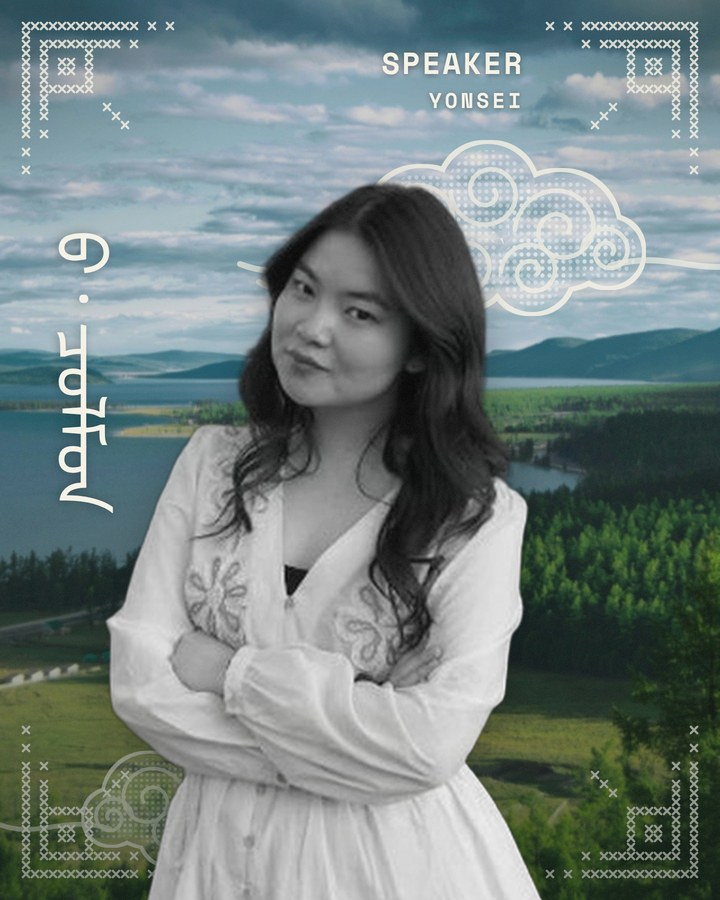
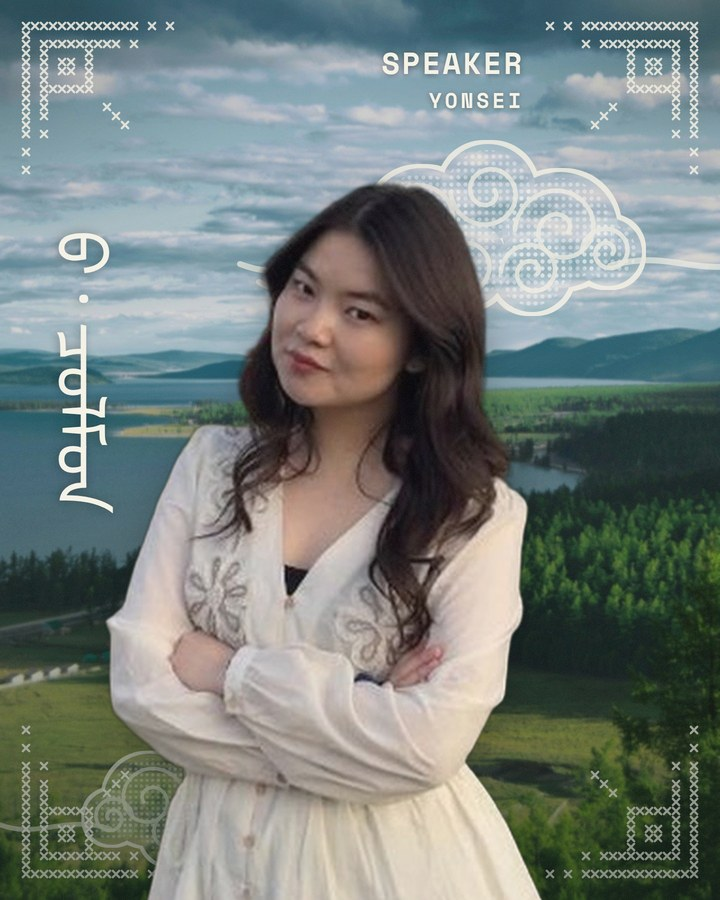
Speakers: full-colour people on the styled background
Claude-Session: https://claude.ai/code/session_015w2YeaPuoH2UidzmstFP66

diff --git a/index.html b/index.html
@@ -278,7 +278,7 @@
       <div class="marquee speakers-row" data-reveal>
         <div class="speaker">
           <div class="speaker__photo">
-            <img src="assets/img/speaker-urangoo.jpg?v=4" alt="Urangoo Shinedelger" loading="lazy">
+            <img src="assets/img/speaker-urangoo.jpg?v=5" alt="Urangoo Shinedelger" loading="lazy">
             <span class="speaker__school"><img src="assets/img/schools/stanford.svg" alt="Stanford University"></span>
           </div>
           <p class="speaker__name">Urangoo Shinedelger</p>
@@ -286,7 +286,7 @@
         </div>
         <div class="speaker">
           <div class="speaker__photo">
-            <img src="assets/img/speaker-garid.jpg?v=4" alt="Garid Mendbayar" loading="lazy">
+            <img src="assets/img/speaker-garid.jpg?v=5" alt="Garid Mendbayar" loading="lazy">
             <span class="speaker__school"><img src="assets/img/schools/vanderbilt.png?v=3" alt="Vanderbilt University"></span>
           </div>
           <p class="speaker__name">Garid Mendbayar</p>
@@ -294,7 +294,7 @@
         </div>
         <div class="speaker">
           <div class="speaker__photo">
-            <img src="assets/img/speaker-bayarmaa.jpg?v=4" alt="Bayarmaa Altankhishig" loading="lazy">
+            <img src="assets/img/speaker-bayarmaa.jpg?v=5" alt="Bayarmaa Altankhishig" loading="lazy">
             <span class="speaker__school"><img src="assets/img/schools/bocconi.png" alt="Bocconi University"></span>
           </div>
           <p class="speaker__name">Bayarmaa Altankhishig</p>
@@ -302,7 +302,7 @@
         </div>
         <div class="speaker">
           <div class="speaker__photo">
-            <img src="assets/img/speaker-anar.jpg?v=4" alt="Anar Battogtokh" loading="lazy">
+            <img src="assets/img/speaker-anar.jpg?v=5" alt="Anar Battogtokh" loading="lazy">
             <span class="speaker__school"><img src="assets/img/schools/cornell.svg" alt="Cornell University"></span>
           </div>
           <p class="speaker__name">Anar Battogtokh</p>
@@ -310,7 +310,7 @@
         </div>
         <div class="speaker">
           <div class="speaker__photo">
-            <img src="assets/img/speaker-tsolmon.jpg?v=4" alt="Tsolmon Baasantsogt" loading="lazy">
+            <img src="assets/img/speaker-tsolmon.jpg?v=5" alt="Tsolmon Baasantsogt" loading="lazy">
             <span class="speaker__school"><img src="assets/img/schools/yonsei.png?v=2" alt="Yonsei University"></span>
           </div>
           <p class="speaker__name">Tsolmon Baasantsogt</p>
@@ -318,7 +318,7 @@
         </div>
         <div class="speaker">
           <div class="speaker__photo">
-            <img src="assets/img/speaker-tulga.jpg?v=4" alt="Tulga Bayarnyam" loading="lazy">
+            <img src="assets/img/speaker-tulga.jpg?v=5" alt="Tulga Bayarnyam" loading="lazy">
             <span class="speaker__school"><img src="assets/img/schools/skku.png?v=2" alt="Sungkyunkwan University"></span>
           </div>
           <p class="speaker__name">Tulga Bayarnyam</p>
@@ -326,7 +326,7 @@
         </div>
         <div class="speaker">
           <div class="speaker__photo">
-            <img src="assets/img/speaker-anu.jpg?v=4" alt="Anu Otgonjargal" loading="lazy">
+            <img src="assets/img/speaker-anu.jpg?v=5" alt="Anu Otgonjargal" loading="lazy">
             <span class="speaker__school speaker__school--fill"><img src="assets/img/schools/absolute.png" alt="Absolute School of English"></span>
           </div>
           <p class="speaker__name">Anu Otgonjargal</p>
